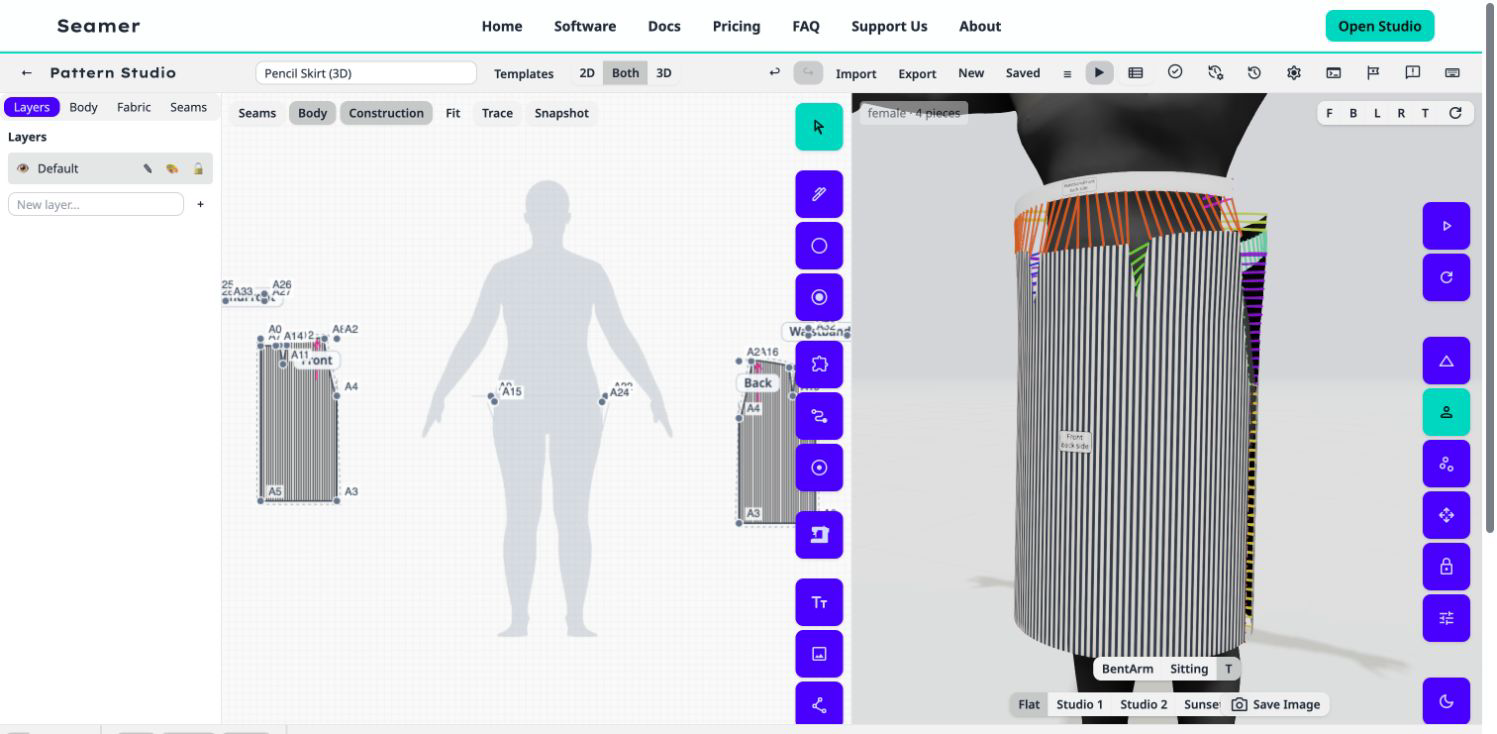
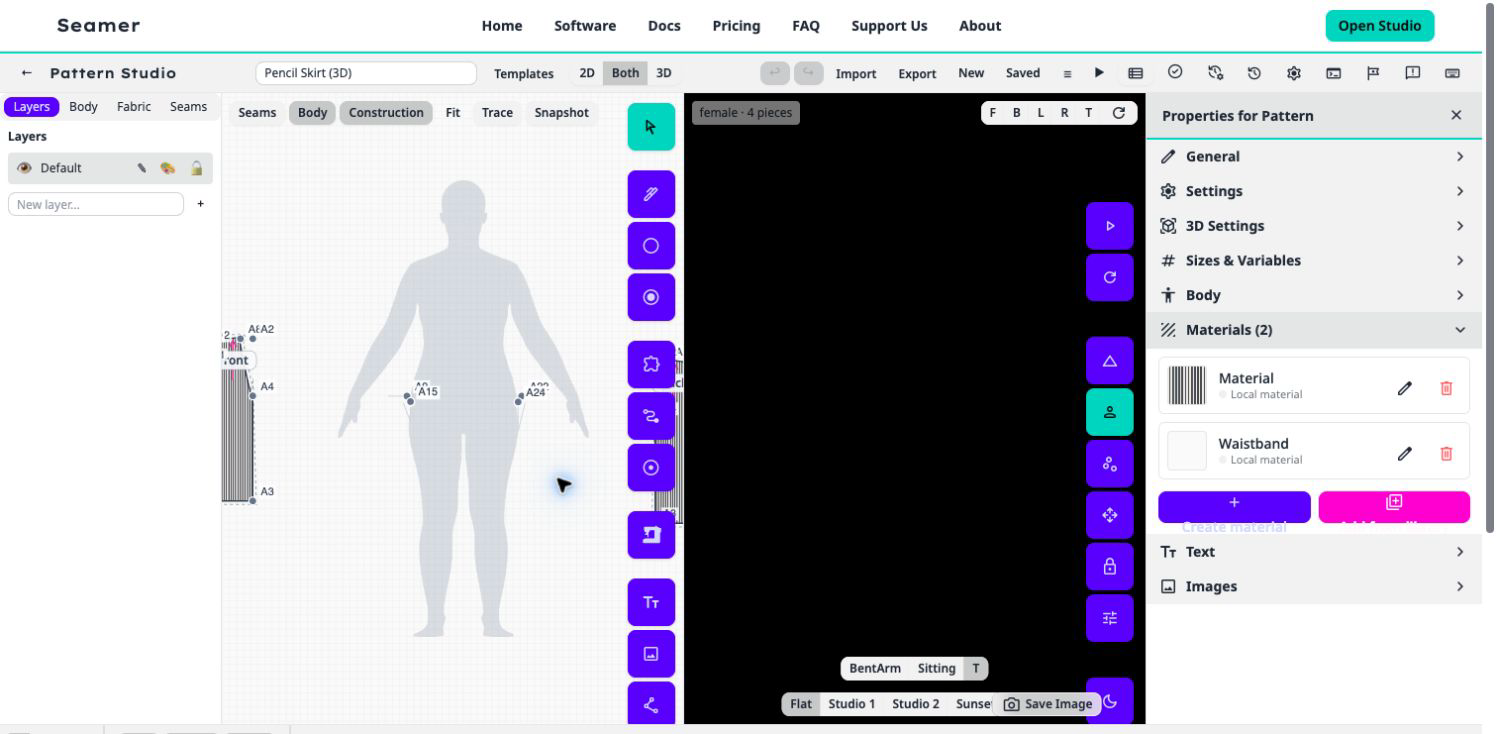
fix(viewport): never leave the scene undrawn when a replacing AO pass is off
Browser verification found seamer-studio's 3D pane completely black on first
load, clearing only when the user toggled ambient occlusion on.

Root cause is an engine flaw in the replacesRenderPass contract. An AO pass
declaring replacesRenderPass draws scene beauty ONLY while enabled, and the
engine omitted the RenderPass entirely on that basis. createEmptyPattern
defaults n8aoEnabled to false, so on first load the AO pass was disabled and
nothing in the composer drew the scene at all. Toggling AO enabled the only
pass that draws.

The RenderPass is now always in the chain; syncRenderPass() keeps exactly one
of the two drawing, and runs on every path that changes AO state.

packcad was unaffected because it uses the built-in GTAO, which does not
replace the RenderPass - which is why every static check and both apps' unit
suites stayed green.

Adds three regression tests. One existing assertion encoded the buggy pass
ordering and was corrected.

126 tests (was 123), typecheck and lint clean.

diff --git a/packages/viewport/src/post.ts b/packages/viewport/src/post.ts
@@ -36,7 +36,11 @@ export type DofFocusProvider = () => DofFocus | null;
 /** Adapter for an app-owned AO implementation inserted into the engine composer. */
 export interface AoPass {
   readonly pass: Pass;
-  /** N8AOPass renders scene beauty itself; set this to omit the preceding RenderPass. */
+  /**
+   * Set when the pass renders scene beauty itself (N8AO "Combined" mode). The engine keeps the
+   * RenderPass in the chain regardless and disables it only while this pass is enabled, because
+   * a pass that replaces the RenderPass stops drawing the scene when it is switched off.
+   */
   readonly replacesRenderPass?: boolean;
   apply(settings: AoSettings): void;
   setSize(width: number, height: number): void;
@@ -74,6 +78,8 @@ export class PostFX {
   private renderPass: RenderPass | null = null;
   private aoPass: AoPass | null = null;
   private builtInAoPass: GTAOPass | null = null;
+  /** True when the injected AO pass renders scene beauty itself (e.g. N8AO "Combined"). */
+  private aoReplacesRenderPass = false;
   private bokehPass: BokehPass | null = null;
   private smaaPass: SMAAPass | null = null;
   private enabled = false;
@@ -164,6 +170,17 @@ export class PostFX {
     this.applyDofSettings();
     if (this.smaaPass) this.smaaPass.enabled = this.smaaPass.enabled && !this.forceLowEnd;
     this.invalidate();
+  }
+
+  /**
+   * Exactly one pass must draw the scene. When the injected AO pass replaces the RenderPass it
+   * only draws while enabled, so the RenderPass is re-enabled whenever AO is off. Without this
+   * a document with AO disabled renders nothing at all and the viewport is black.
+   */
+  private syncRenderPass(): void {
+    if (!this.renderPass) return;
+    const aoDrawing = this.aoReplacesRenderPass && (this.aoPass?.pass.enabled ?? false);
+    this.renderPass.enabled = !aoDrawing;
   }
 
   private renderComposer(): boolean {
@@ -263,7 +280,11 @@ export class PostFX {
       // r181 sizes SMAA through setSize(); its constructor no longer takes width/height.
       const smaa = new SMAAPass();
       smaa.enabled = !this.forceLowEnd;
-      if (!aoPass?.replacesRenderPass) composer.addPass(render);
+      // The RenderPass is ALWAYS in the chain, even when an AO pass claims to replace it.
+      // A pass that renders scene beauty itself (N8AO's "Combined" mode) only does so while it
+      // is enabled; disabling it would otherwise leave nothing drawing the scene and the
+      // viewport would go black. `syncRenderPass()` keeps exactly one of the two active.
+      composer.addPass(render);
       if (aoPass) composer.addPass(aoPass.pass);
       composer.addPass(bokeh);
       composer.addPass(smaa);
@@ -280,11 +301,13 @@ export class PostFX {
         enabled: this.aoSettings.enabled && !this.forceLowEnd,
       });
       this.composer = composer;
-      this.renderPass = aoPass?.replacesRenderPass ? null : render;
+      this.renderPass = render;
+      this.aoReplacesRenderPass = aoPass?.replacesRenderPass ?? false;
       this.aoPass = aoPass;
       this.builtInAoPass = builtInAoPass;
       this.bokehPass = bokeh;
       this.smaaPass = smaa;
+      this.syncRenderPass();
       this.applyDofSettings();
       return true;
     } catch {
@@ -308,6 +331,8 @@ export class PostFX {
       ...this.aoSettings,
       enabled: this.aoSettings.enabled && !this.forceLowEnd,
     });
+    // Toggling AO can hand scene drawing between the AO pass and the RenderPass.
+    this.syncRenderPass();
   }
 
   private applyDofSettings(): void {

diff --git a/packages/viewport/src/post.test.ts b/packages/viewport/src/post.test.ts
@@ -179,8 +179,10 @@ describe('PostFX AO injection', () => {
     expect(setSize).toHaveBeenLastCalledWith(1280, 720);
     expect(postMocks.renderTargets.map((target) => target.samples)).toEqual([4, 4]);
     expect(dispose).toHaveBeenCalledTimes(1);
-    expect(postMocks.addedPasses[0]).toBe(ao.pass);
-    expect(postMocks.addedPasses).toHaveLength(4);
+    // The RenderPass is always present, immediately before the AO pass, even when the AO pass
+    // declares `replacesRenderPass` — see the "renderPass handover" tests below for why.
+    expect(postMocks.addedPasses[1]).toBe(ao.pass);
+    expect(postMocks.addedPasses).toHaveLength(5);
   });
 
   it('continues without an AO pass when the factory returns null', () => {
@@ -259,5 +261,63 @@ describe('PostFX AO injection', () => {
     expect(postMocks.bokehUniforms[0]?.focus.value).toBe(2.75);
     expect(postMocks.bokehUniforms[0]?.aperture.value).toBe(0.0075);
     post.dispose();
+  });
+});
+
+// Regression: browser verification found seamer-studio's 3D pane completely black on first load,
+// clearing only when the user toggled AO on. Cause: an AO pass declaring `replacesRenderPass`
+// draws scene beauty ONLY while enabled, and the engine had omitted the RenderPass entirely — so
+// a document with AO disabled (createEmptyPattern defaults `n8aoEnabled: false`) had nothing
+// drawing the scene at all.
+describe('PostFX renderPass handover', () => {
+  beforeEach(() => {
+    postMocks.addedPasses.length = 0;
+  });
+
+  function buildWithReplacingAo(enabled: boolean): { renderPass: Pass; aoPass: Pass } {
+    const aoInner = fakePass();
+    const ao: AoPass = {
+      pass: aoInner,
+      replacesRenderPass: true,
+      apply: (settings) => {
+        aoInner.enabled = settings.enabled;
+      },
+      setSize: () => {},
+      dispose: () => {},
+    };
+    const post = new PostFX(
+      fakeRenderer(),
+      new THREE.Scene(),
+      new THREE.PerspectiveCamera(),
+      () => {},
+      () => null,
+      () => ao,
+    );
+    post.setEnabled(true);
+    post.apply({ ao: { enabled } });
+    const isPass = (value: unknown): value is Pass =>
+      typeof value === 'object' && value !== null && 'enabled' in value;
+    const renderPass = postMocks.addedPasses.filter(isPass).find((candidate) => candidate !== aoInner);
+    if (!renderPass) throw new Error('RenderPass was not added to the composer');
+    return { renderPass, aoPass: aoInner };
+  }
+
+  it('keeps the RenderPass in the chain even when AO claims to replace it', () => {
+    const { renderPass } = buildWithReplacingAo(true);
+    expect(renderPass).toBeDefined();
+  });
+
+  it('enables the RenderPass when the replacing AO pass is disabled', () => {
+    const { renderPass, aoPass } = buildWithReplacingAo(false);
+    expect(aoPass.enabled).toBe(false);
+    // Something must still draw the scene.
+    expect(renderPass.enabled).toBe(true);
+  });
+
+  it('disables the RenderPass while the replacing AO pass is drawing', () => {
+    const { renderPass, aoPass } = buildWithReplacingAo(true);
+    expect(aoPass.enabled).toBe(true);
+    // Exactly one pass draws the scene; not both.
+    expect(renderPass.enabled).toBe(false);
   });
 });
